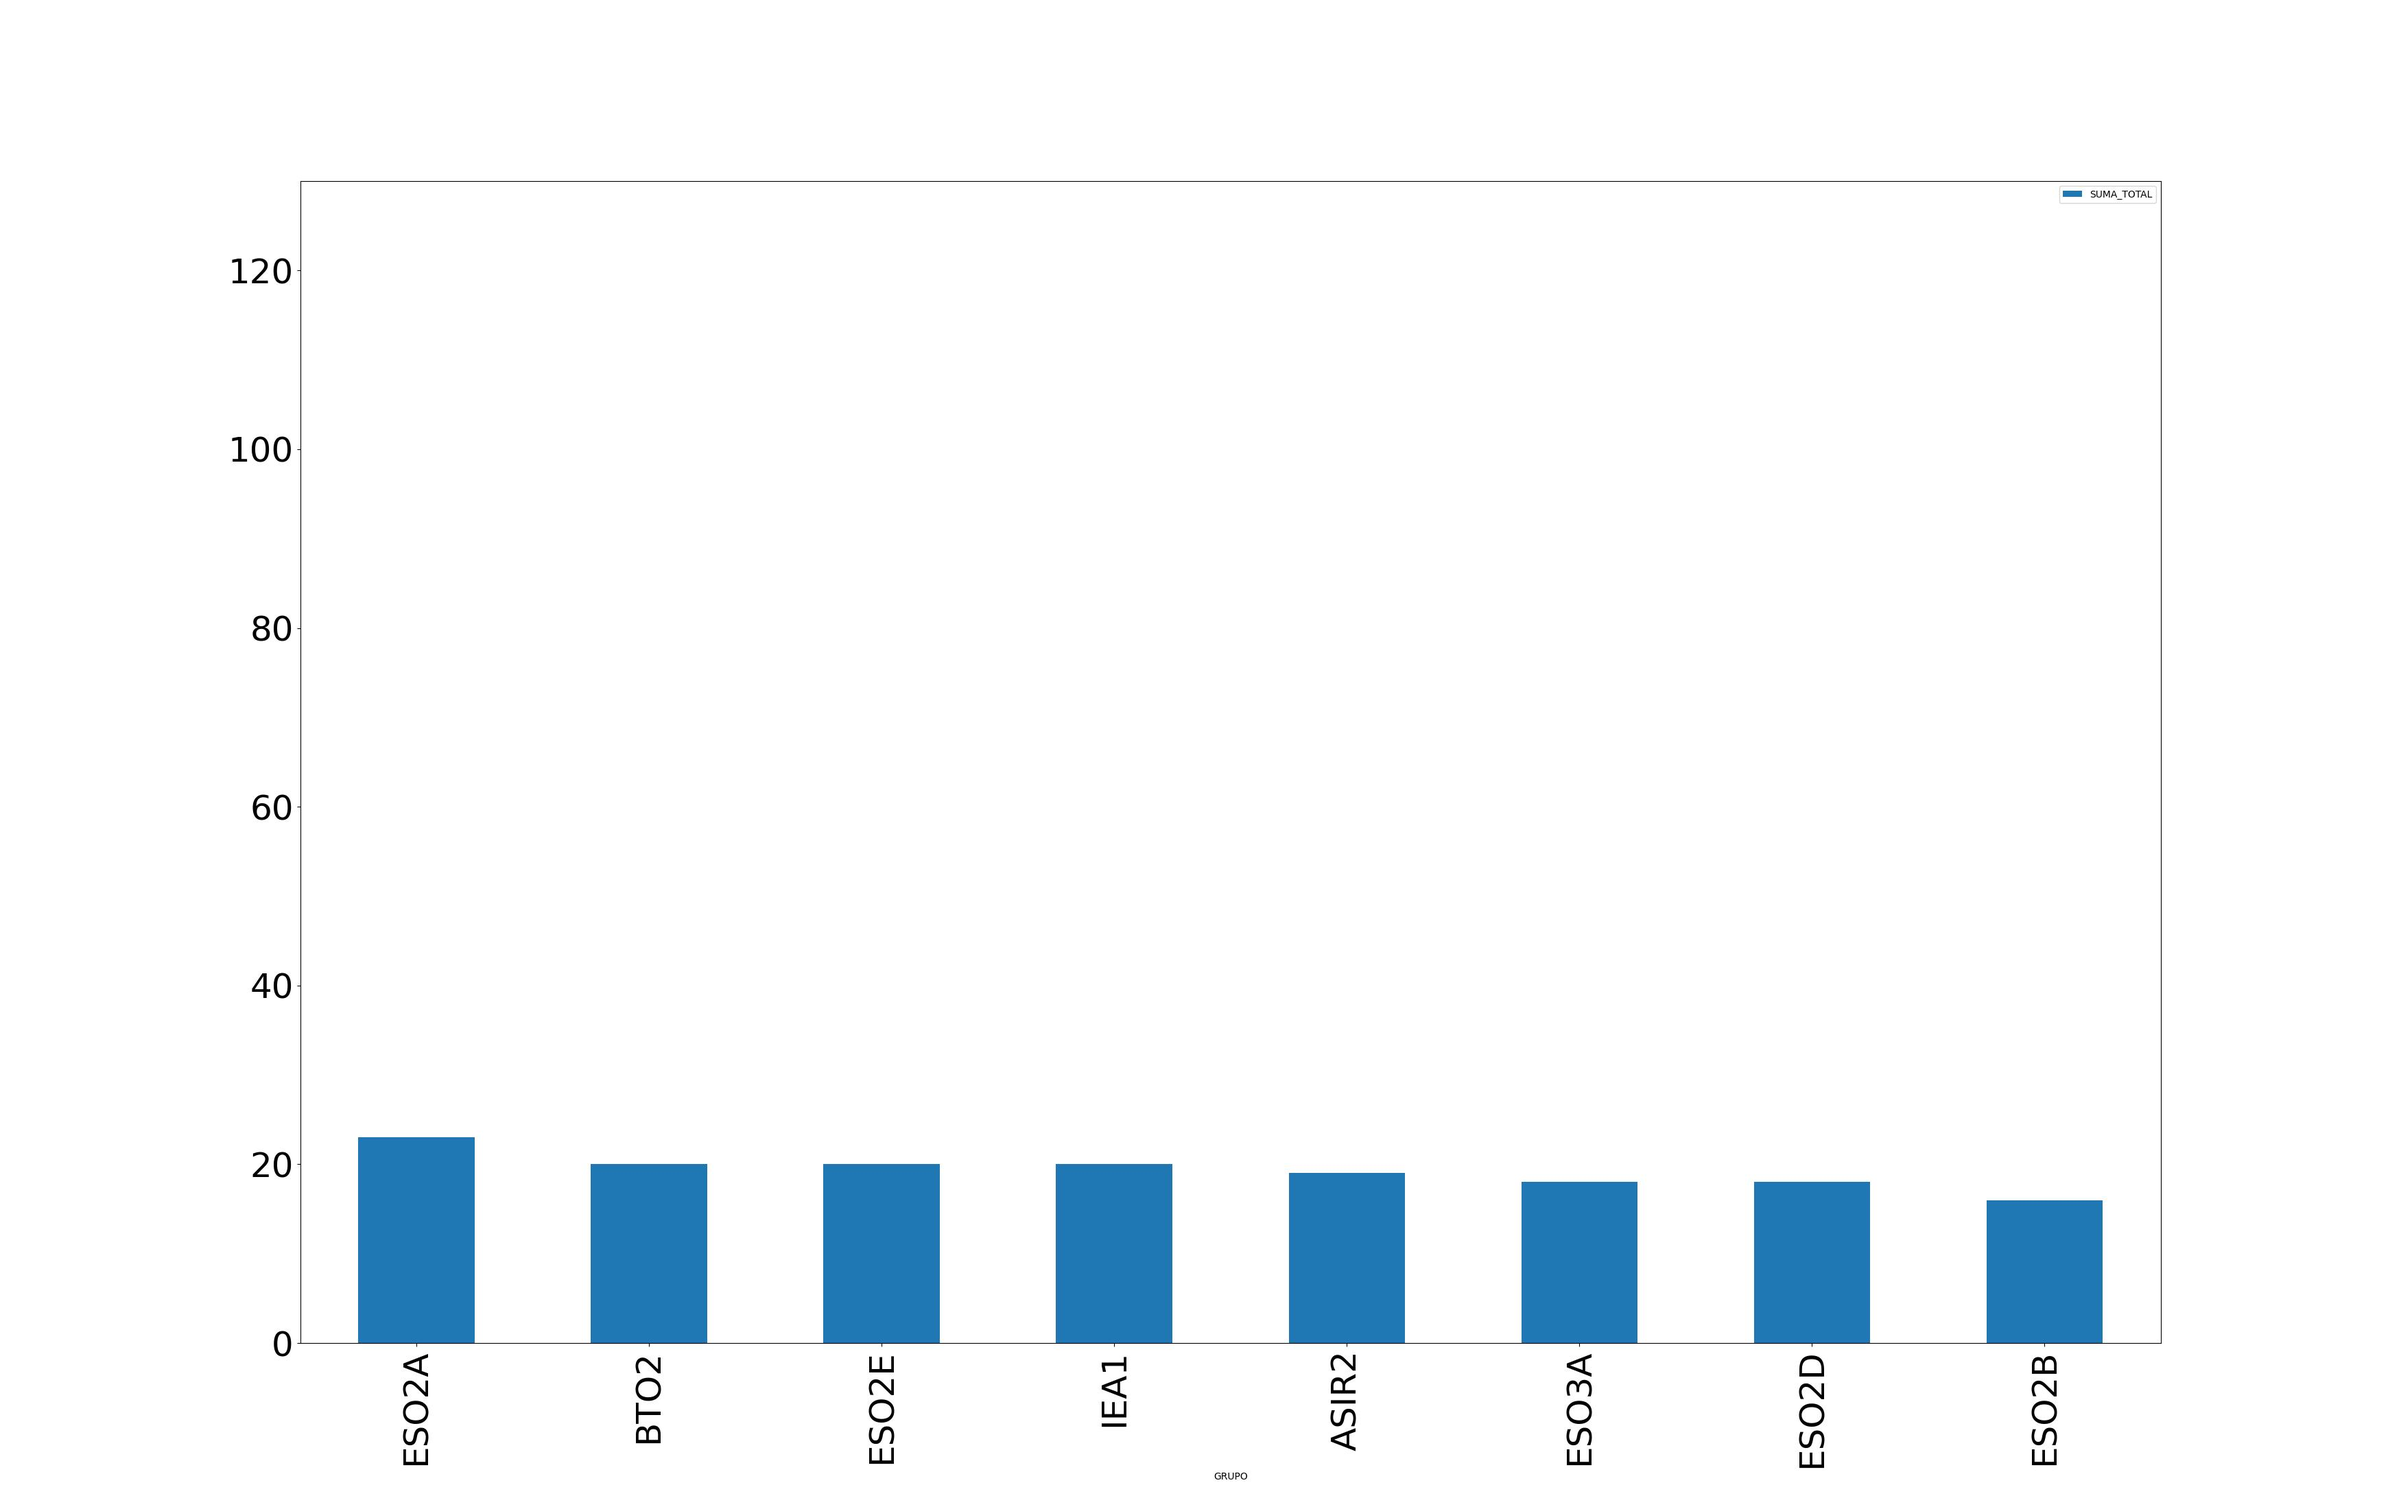
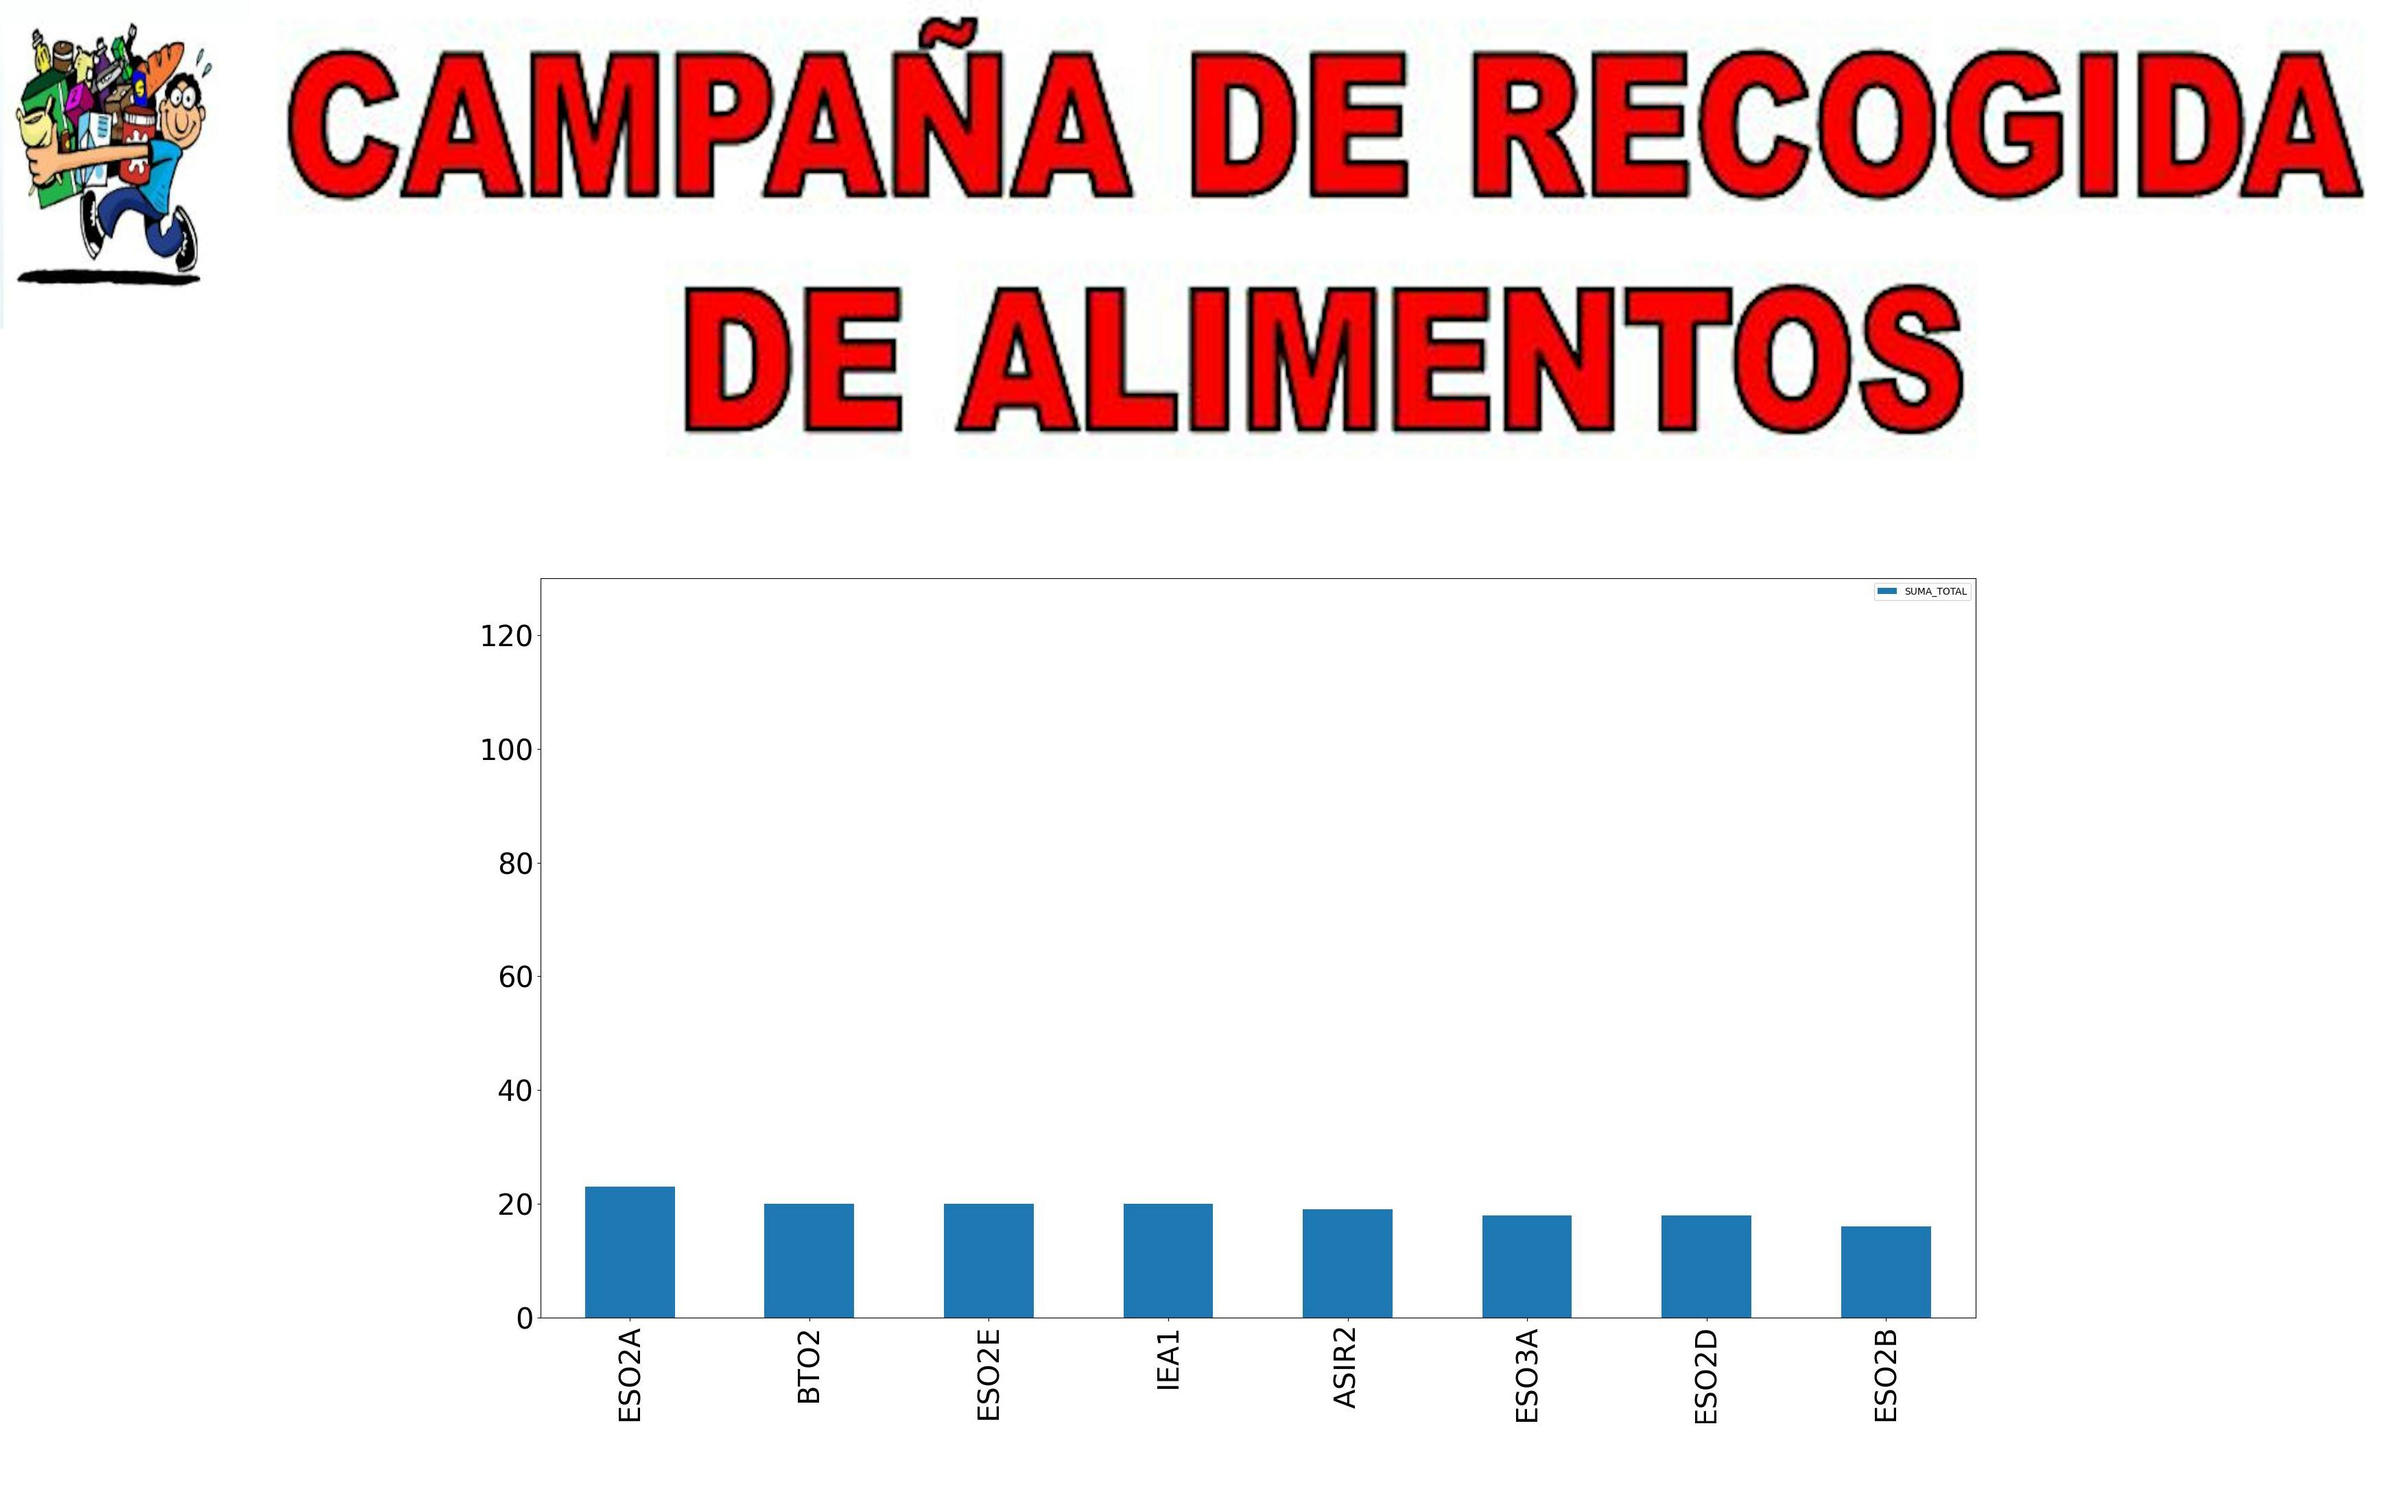
added template

diff --git a/main.py b/main.py
@@ -5,12 +5,13 @@ from read import read
 from generate_charts import generate_charts
 
 def main ():
-  if len(argv) != 3:
-    print('Please, provide a path to a csv file and a directory for the result')
+  if len(argv) != 4:
+    print('Please, provide a path to a csv file, a directory for the result and a jpg template to frame the result')
     exit(1)
 
   filename = argv[1]
   destination = argv[2]
+  template = argv[3]
 
   if not exists(filename):
     print('csv file not found')
@@ -20,10 +21,13 @@ def main ():
     print('Conflict with destination path')
     exit(1)
 
+  if not exists(template):
+    print('Conflict with template')
+    exit(1)
+
   data = read(filename)
   sorted_data = data.sort_values(by = ['SUMA_TOTAL'], ascending = False)
-  print(sorted_data)
-  generate_charts(destination, sorted_data)
+  generate_charts(destination, template, sorted_data)
   
 
 if __name__ == '__main__':

diff --git a/generate_charts.py b/generate_charts.py
@@ -2,11 +2,13 @@ from pandas import DataFrame
 from matplotlib.pyplot import savefig
 
 from split_dataFrame_by_position import split_dataFrame_by_position
+from compose_img import compose_img
 
-def generate_charts (destination: str, data: DataFrame):      
+def generate_charts (destination: str, template: str, data: DataFrame):      
     max_sum = max(data['SUMA_TOTAL'])
     dataFrames = split_dataFrame_by_position(data, 4)
 
     for i, dataFrame in enumerate(dataFrames):
-      dataFrame.plot(kind = 'bar', x = 'GRUPO', y = 'SUMA_TOTAL', ylim = (0, max_sum), figsize = (35, 22), fontsize = 36)
+      dataFrame.plot(kind = 'bar', x = 'GRUPO', y = 'SUMA_TOTAL', ylim = (0, max_sum), figsize = (27, 14), fontsize = 30)
       savefig(destination + str(i) + '.jpg')
+      compose_img(destination, template, i)

diff --git a/compose_img.py b/compose_img.py
@@ -1,0 +1,11 @@
+from PIL import Image
+
+def compose_img (destination: str, template: str, number: int):
+    new = Image.new("YCbCr", (3500,2200))
+
+    img = Image.open(template)
+    plot = Image.open(destination + str(number) + ".jpg")
+    new.paste(img, (0,0))
+
+    new.paste(plot, (450, 675))
+    new.save(destination + str(number) + '.jpg')
